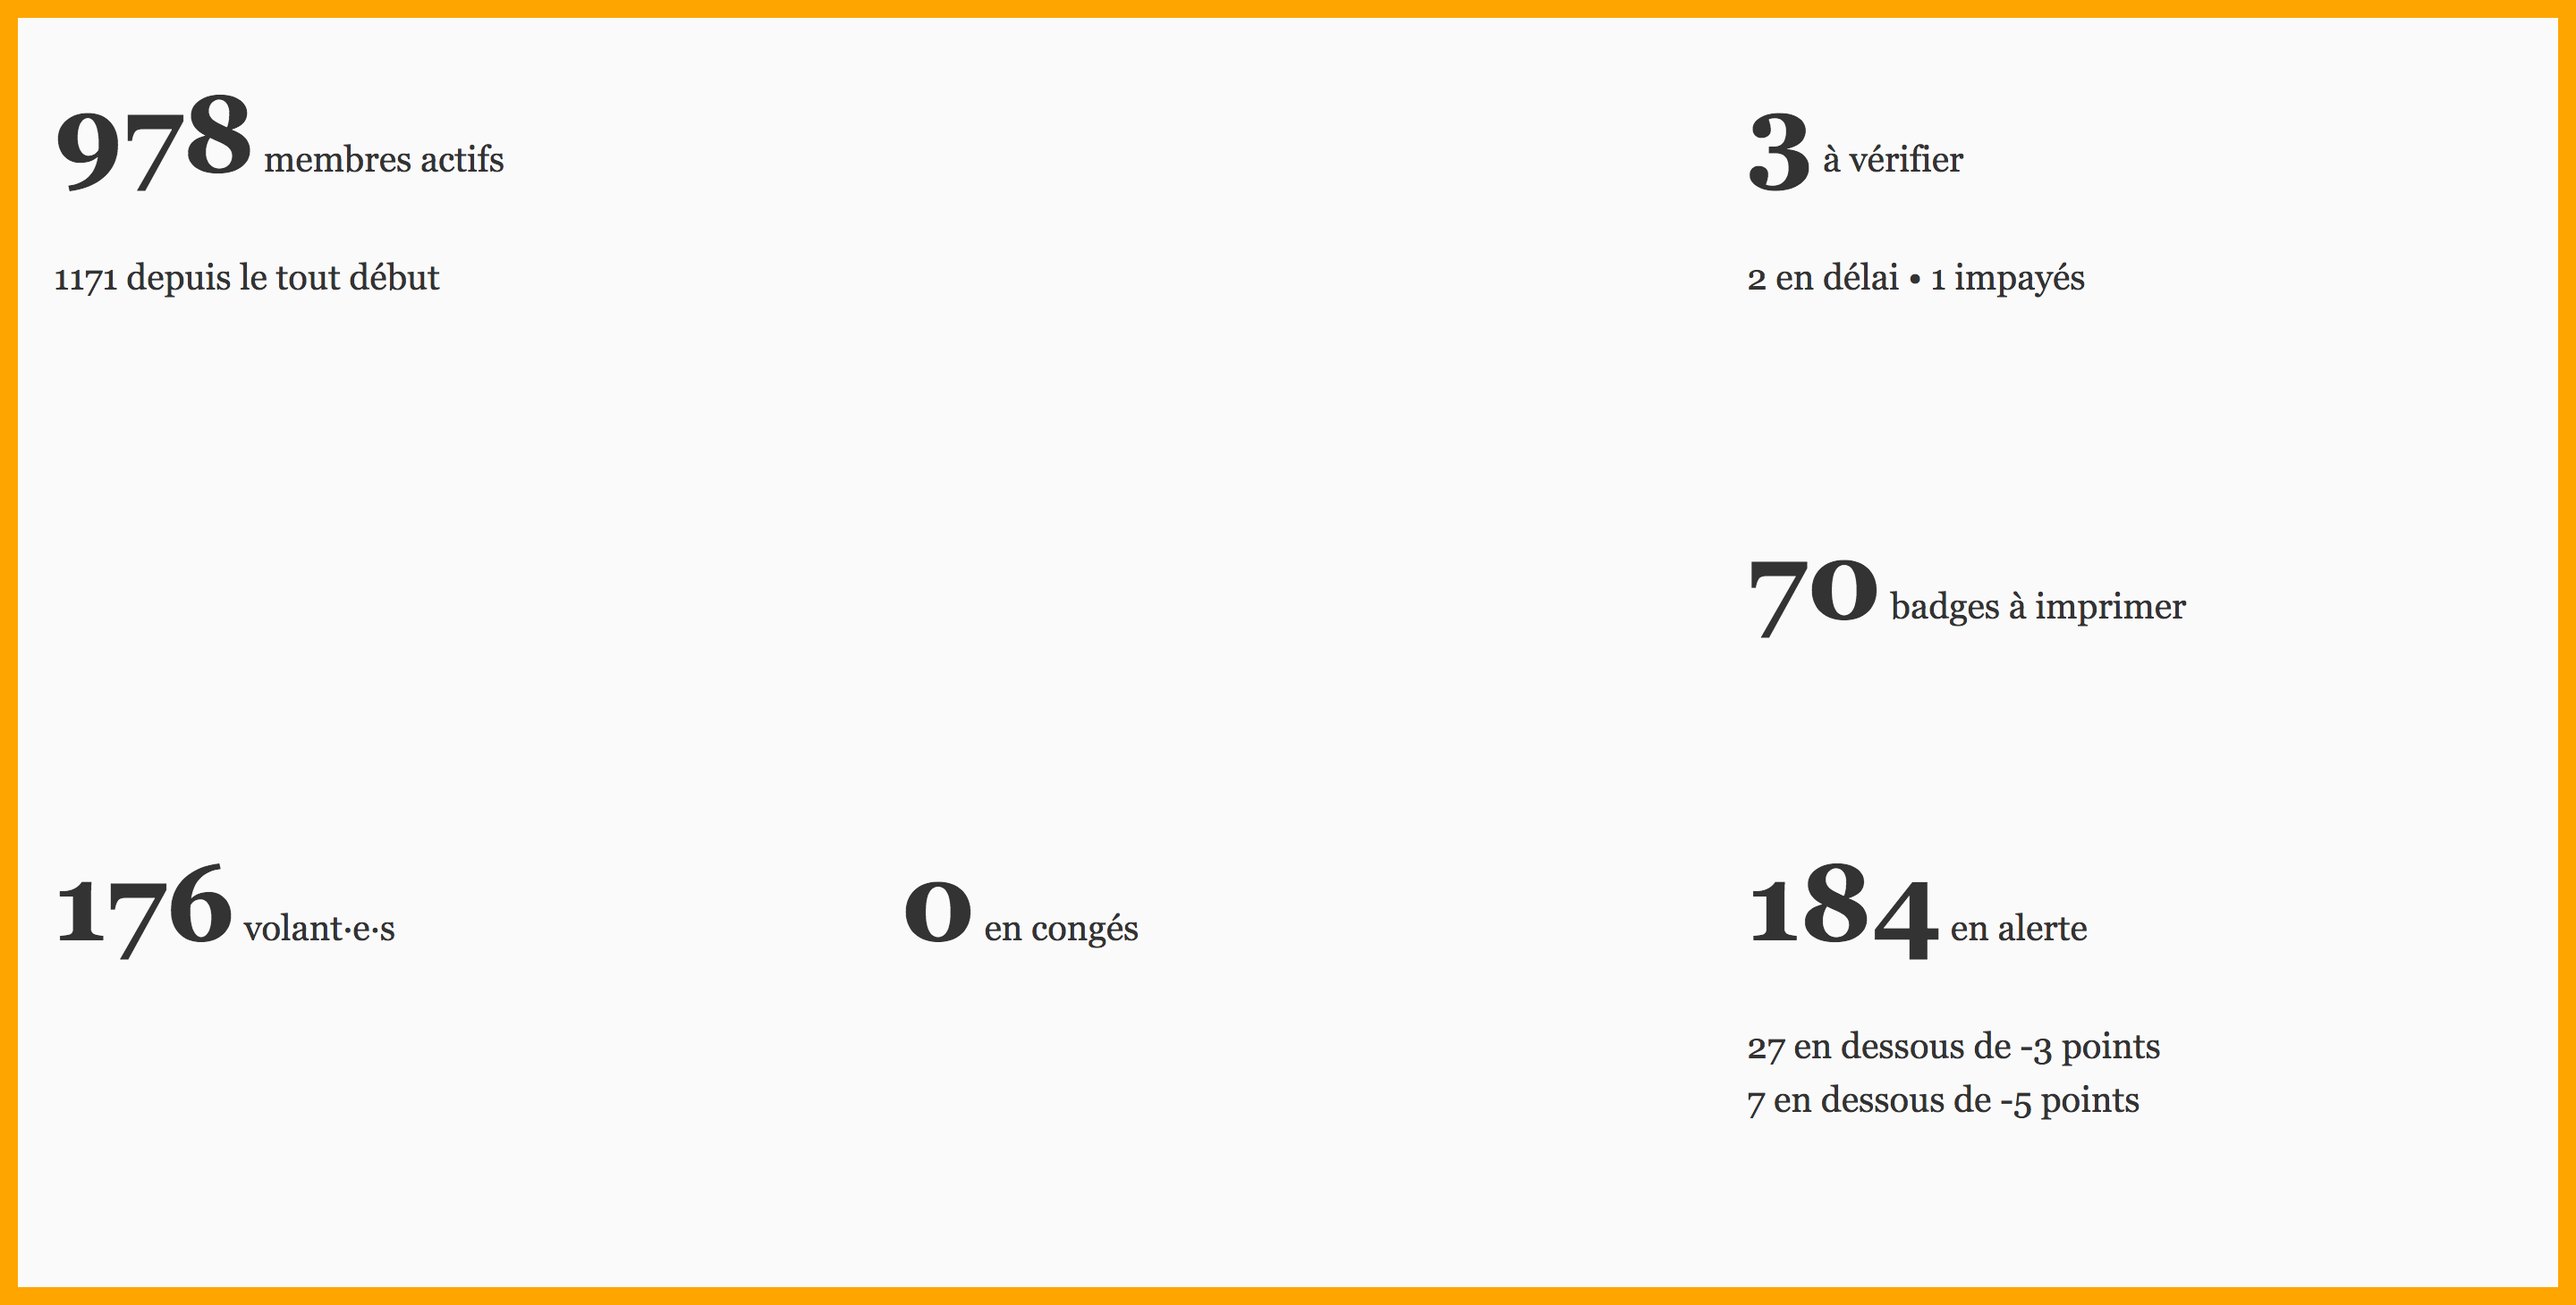
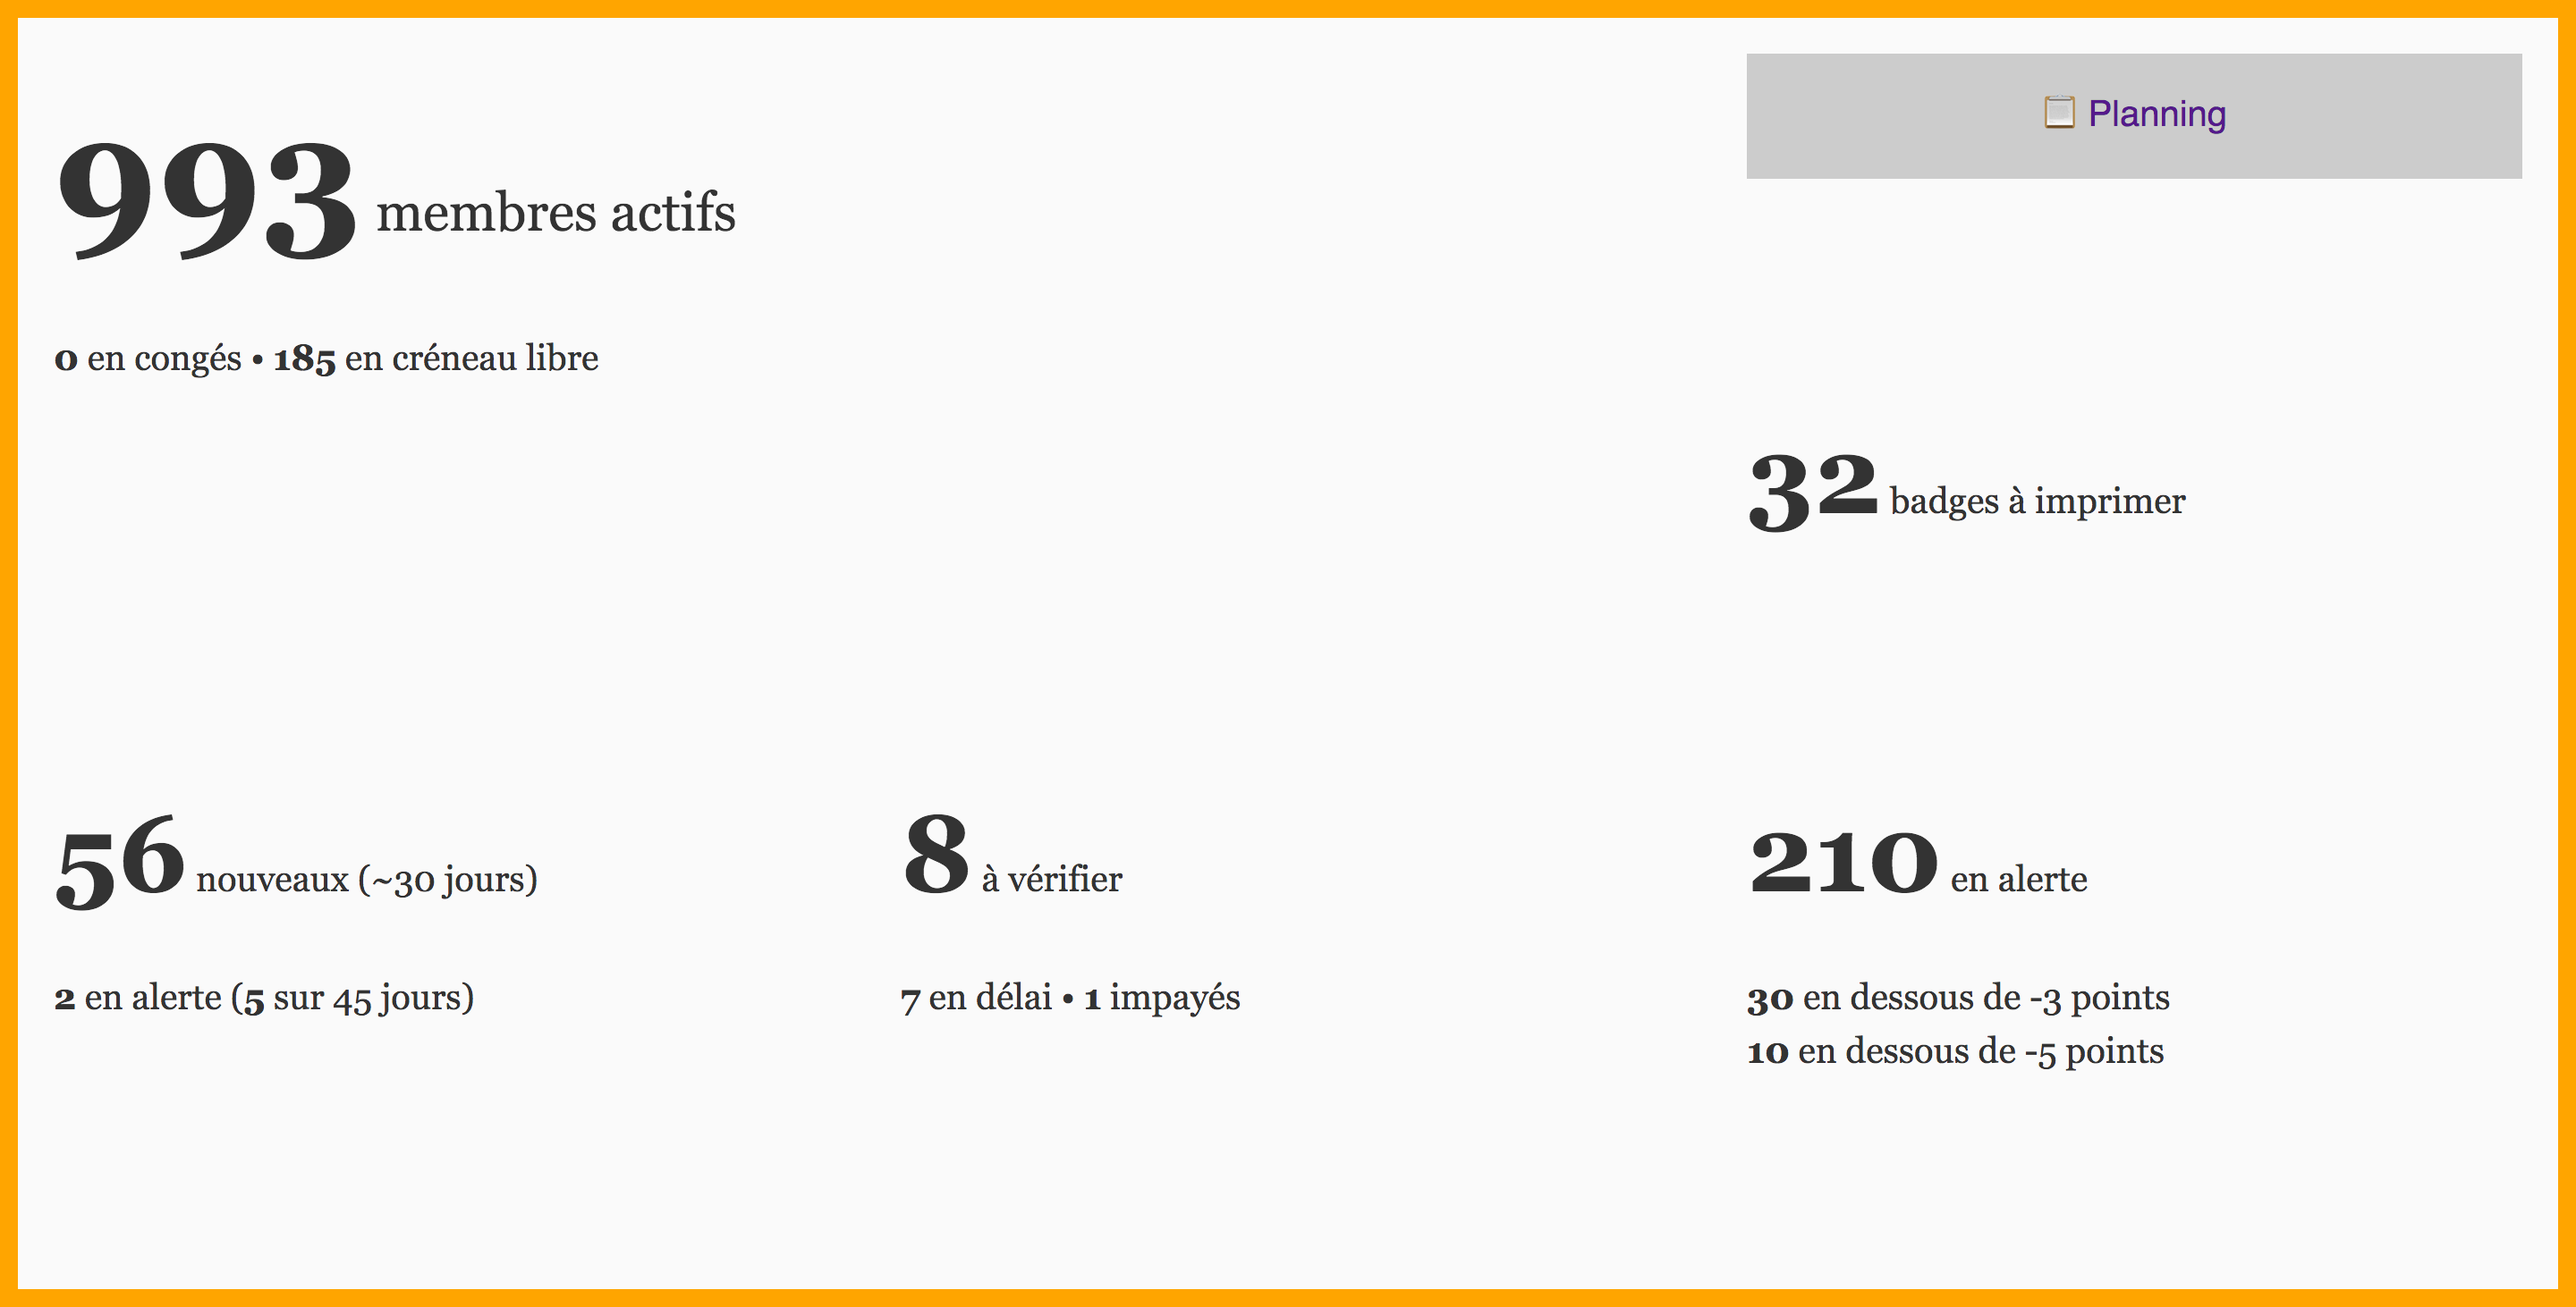
Update screenshots

diff --git a/README.md b/README.md
@@ -14,6 +14,8 @@
 
 **Intention** : voir où sont les urgences de présence.
 
+![](docs/dashboards/planning.png)
+
 ## Créneaux
 
 **Intention** : voir les créneaux qui gagneraient à accueillir davantage de participant·e·s.
